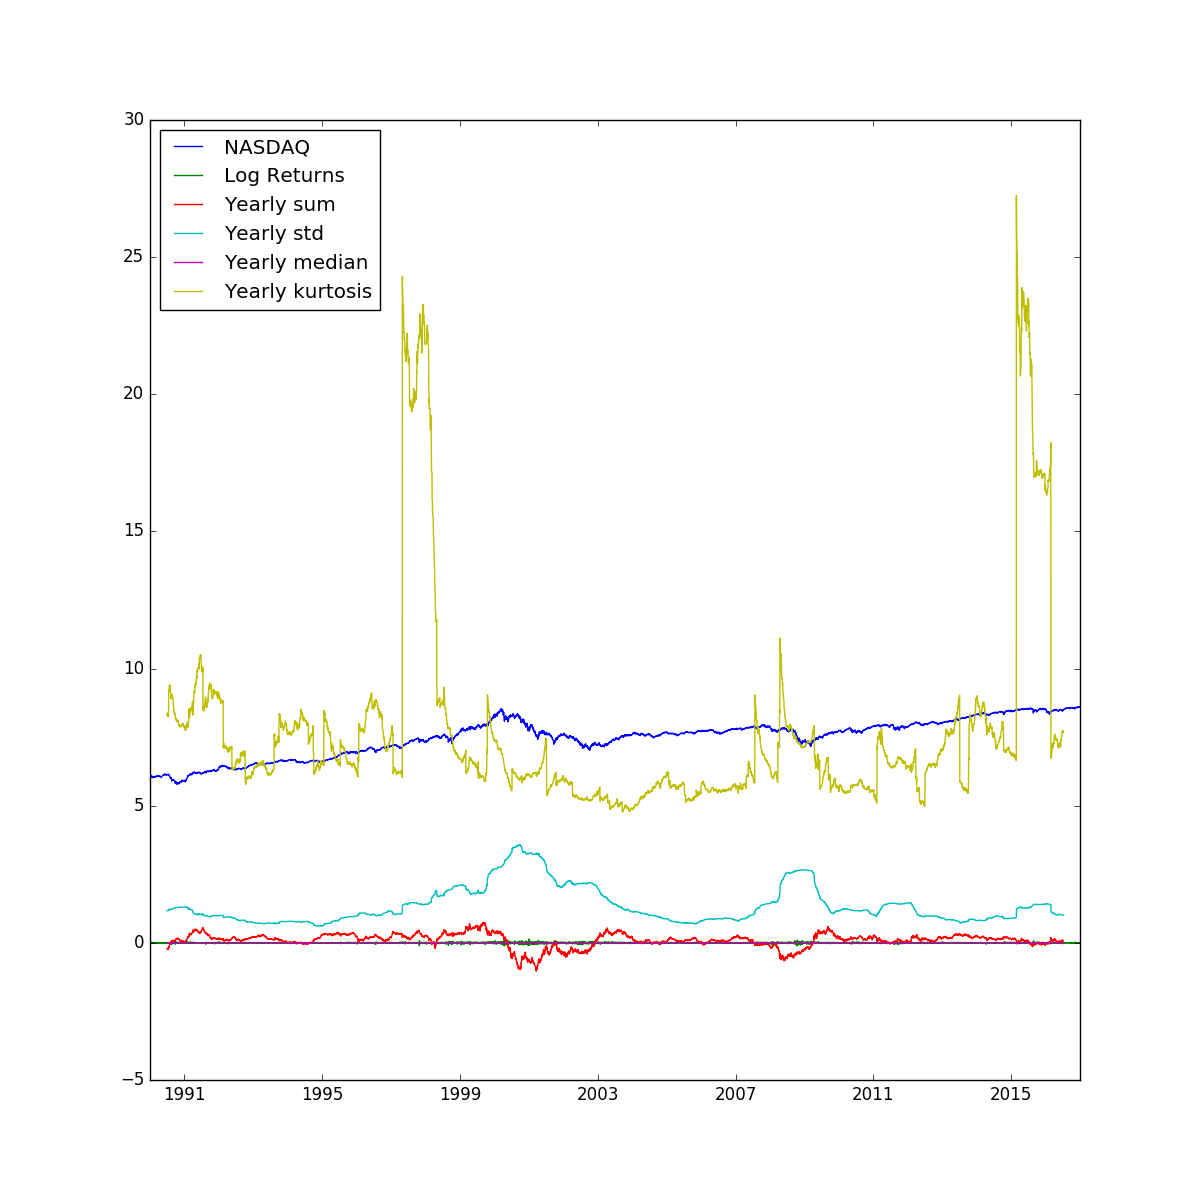
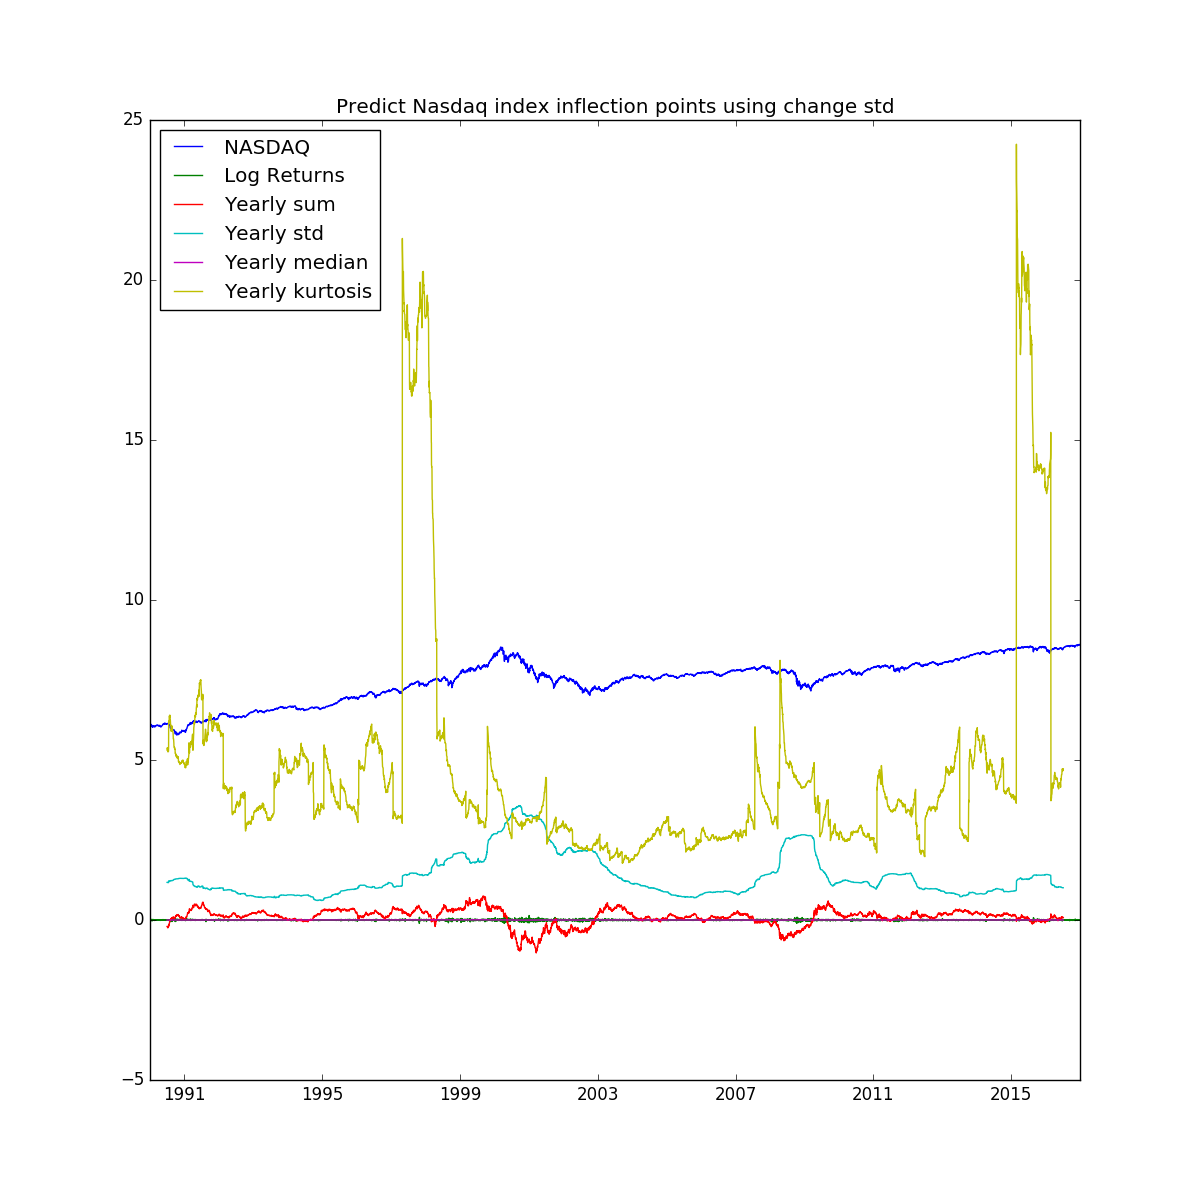
minor tweaks to plot

diff --git a/PredictPeaks.py b/PredictPeaks.py
@@ -37,15 +37,6 @@ data['logReturnsRussell'] = data['logRussell'] - data['logRussell'].shift(1)
 # remove nan row from target creation
 data = data.dropna()
 
-'''
-bins = [-0.16, -0.14, -0.12, -0.10, -0.08, -0.06, -0.04,  -0.02, 0.0, 0.02, 0.04, 0.06, 0.07, 0.08, 0.10, 0.12, 0.14, 0.16]
-def plot_histogram(d):
-    global year
-    n, b, _ = plt.hist(d, bins=bins)
-    return (n, b)
-h_plots = data['logReturnsNASDAQ'].groupby([data.index.year]).apply(plot_histogram)
-
-'''
 
 yr_sum = data.rolling(window=252, center=True).sum()['logReturnsNASDAQ']
 yr_std = data.rolling(window=252, center=True).std()['logReturnsNASDAQ']
@@ -59,7 +50,8 @@ plt.plot(data['logReturnsNASDAQ'], label='Log Returns')
 plt.plot(yr_sum, label='Yearly sum')
 plt.plot(yr_std * 100., label='Yearly std')
 plt.plot(yr_median, label='Yearly median')
-plt.plot(yr_kurtosis + 5, label='Yearly kurtosis')
+plt.plot(yr_kurtosis + 2, label='Yearly kurtosis')
+plt.title("Predict Nasdaq index inflection points using change std")
 
 plt.legend(loc='best')
 
